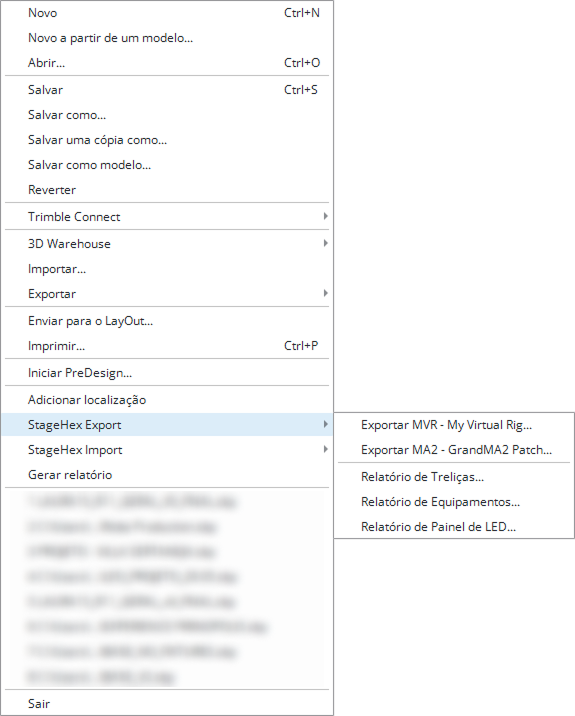
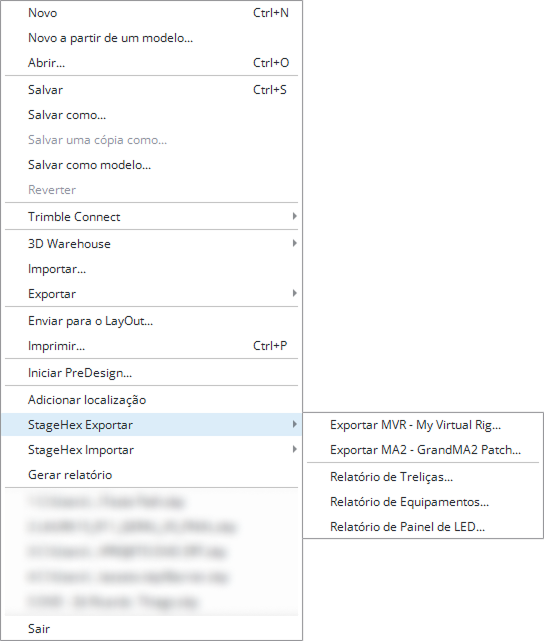
Adiciona documentacao de importacao SketchUp

diff --git a/visao-geral/plugin-sketchup/importacao.md b/visao-geral/plugin-sketchup/importacao.md
@@ -1,0 +1,83 @@
+# Importar
+
+O StageHex possui um menu dedicado para importação de arquivos técnicos e geometrias, acessível diretamente pelo SketchUp.
+
+<figure><img src="../../.gitbook/assets/sketchup/import-interface/context-import.png" alt="Menu StageHex Importar"><figcaption><p>Acesso ao StageHex Importar pelo menu Arquivo</p></figcaption></figure>
+
+***
+
+## Acessando o StageHex Importar
+
+No SketchUp, acesse:
+
+**Arquivo → StageHex Importar**
+
+Opções disponíveis no menu:
+
+<table>
+<thead>
+<tr>
+<th>Opção</th>
+<th>Descrição</th>
+</tr>
+</thead>
+<tbody>
+<tr>
+<td><strong>Importar My Virtual Rig (.mvr)...</strong></td>
+<td>Importa fixtures, universos e patch a partir de arquivos MVR</td>
+</tr>
+<tr>
+<td><strong>Importar do MA2 (.xml)...</strong></td>
+<td>Importa patch, fixtures e universos a partir de projetos grandMA2</td>
+</tr>
+<tr>
+<td><strong>Importar SVG (.svg)...</strong></td>
+<td>Importa geometria vetorial para uso no projeto</td>
+</tr>
+<tr>
+<td><strong>Importar Imagem (.png, .jpg, .bmp)...</strong></td>
+<td>Gera geometria a partir de imagem, com remoção automática de background</td>
+</tr>
+</tbody>
+</table>
+
+***
+
+## Formatos de Importação
+
+<table>
+<thead>
+<tr>
+<th>Formato</th>
+<th width="150">Extensão</th>
+<th>Conteúdo importado</th>
+</tr>
+</thead>
+<tbody>
+<tr>
+<td><strong>MVR (My Virtual Rig)</strong></td>
+<td>*.mvr</td>
+<td>Fixtures, universos e patch</td>
+</tr>
+<tr>
+<td><strong>grandMA2 XML</strong></td>
+<td>*.xml</td>
+<td>Patch, fixtures e universos</td>
+</tr>
+<tr>
+<td><strong>SVG</strong></td>
+<td>*.svg</td>
+<td>Geometria vetorial</td>
+</tr>
+<tr>
+<td><strong>Imagem</strong></td>
+<td>*.png / *.jpg / *.jpeg / *.bmp</td>
+<td>Geometria gerada a partir da imagem</td>
+</tr>
+</tbody>
+</table>
+
+{% hint style="info" %}
+A importação MVR traz dados técnicos como fixtures, universos e patch. Ela não importa o rig completo como geometria editável.
+{% endhint %}
+

diff --git a/SUMMARY.md b/SUMMARY.md
@@ -47,6 +47,7 @@
       * [Patch Automático](visao-geral/plugin-sketchup/ferramentas/lighting-tools/patch-automatico.md)
       * [Trocar Modo](visao-geral/plugin-sketchup/ferramentas/lighting-tools/trocar-modo.md)
     * [Video/Audio Tools](visao-geral/plugin-sketchup/ferramentas/video-audio-tools.md)
+  * [Importar](visao-geral/plugin-sketchup/importacao.md)
   * [Exportar e Relatórios](visao-geral/plugin-sketchup/exportacao.md)
 * [grandMA2](visao-geral/ma2/README.md)
   * [Exportando para grandMA2](visao-geral/ma2/exportando.md)
